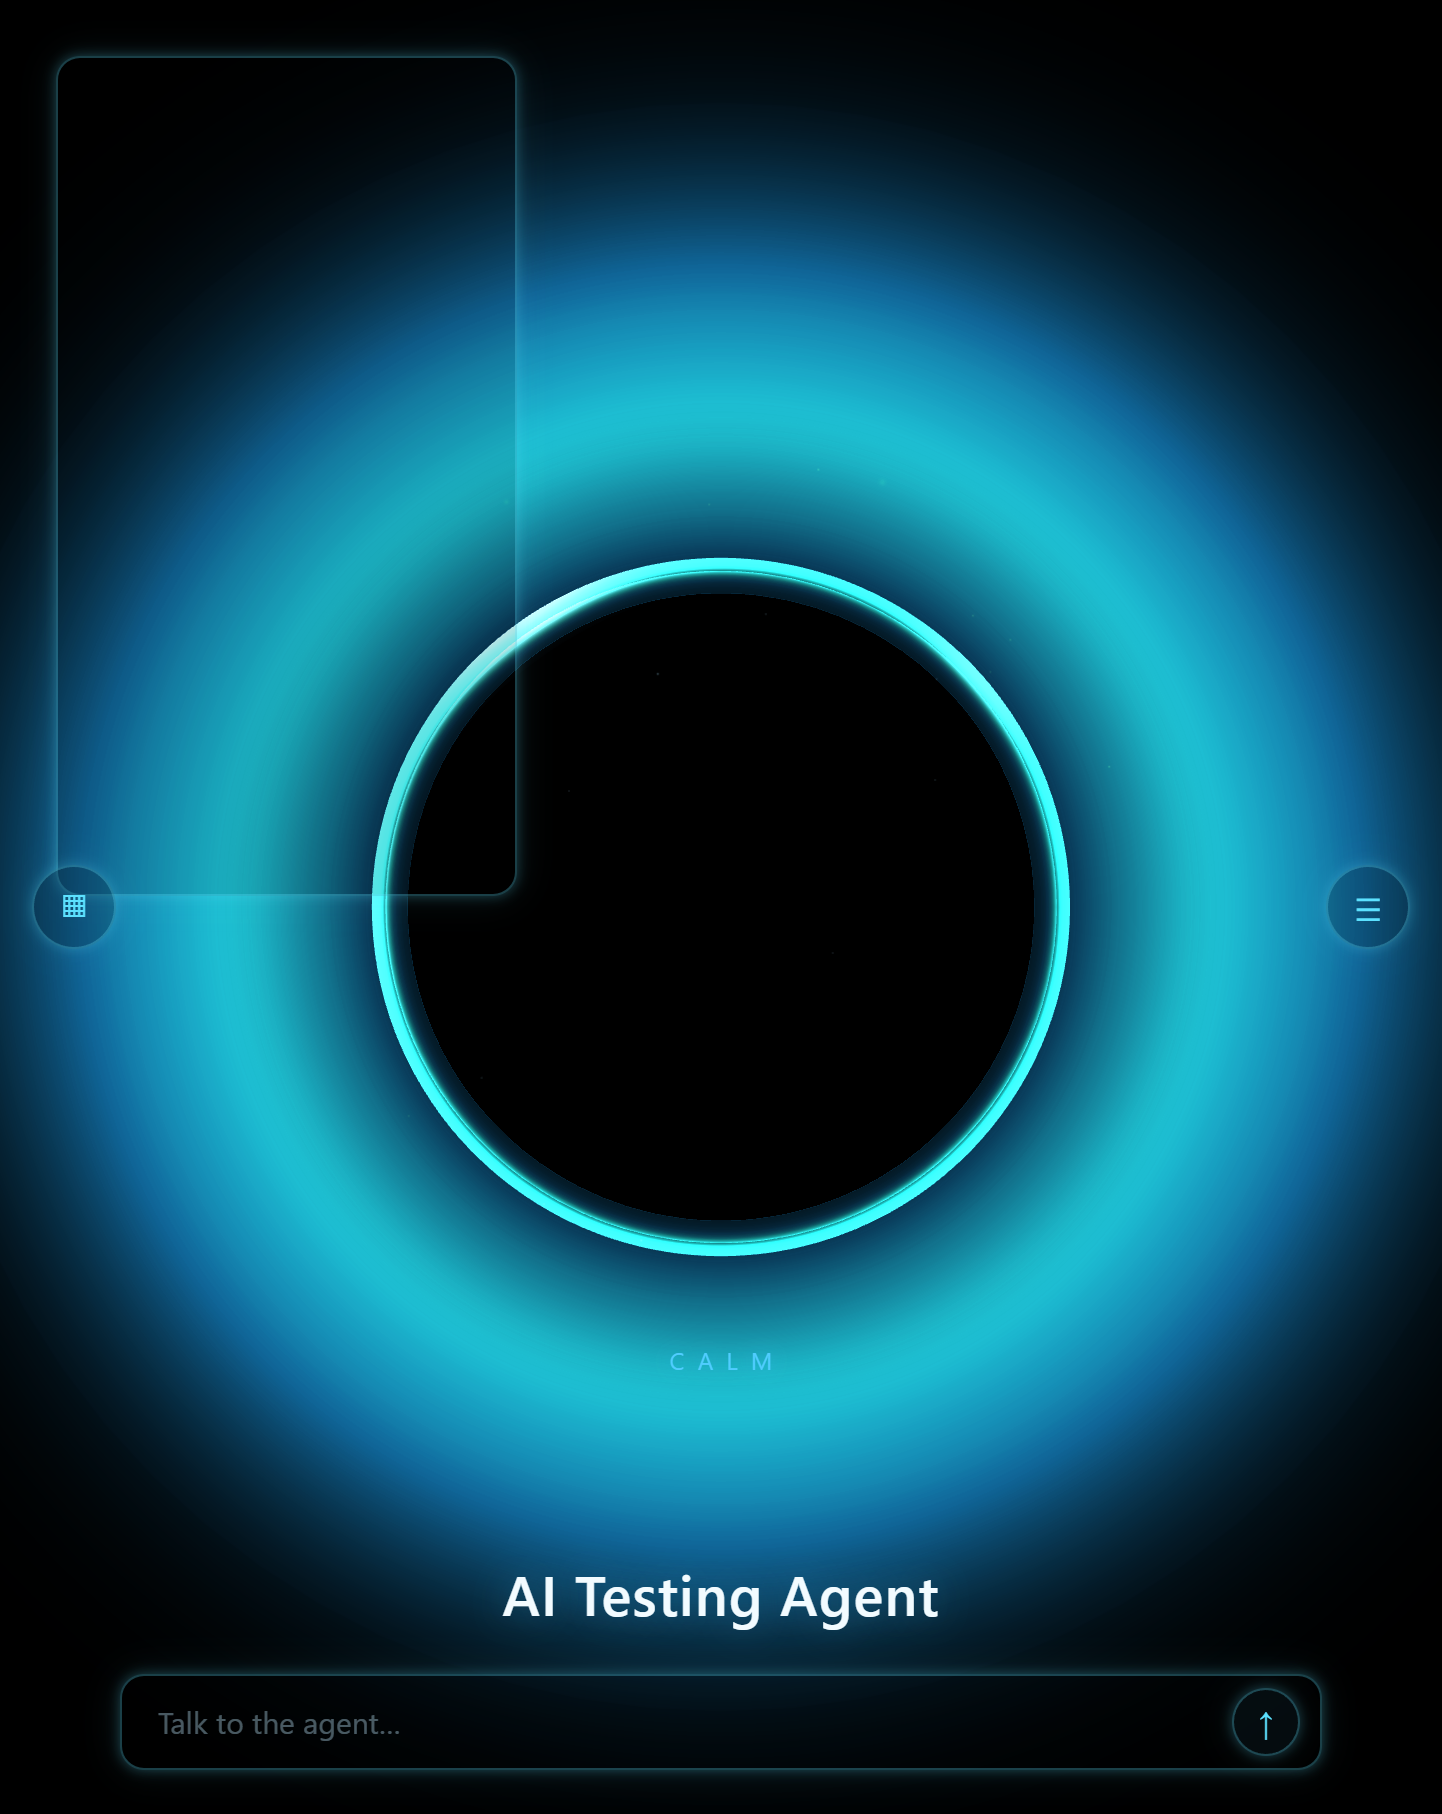
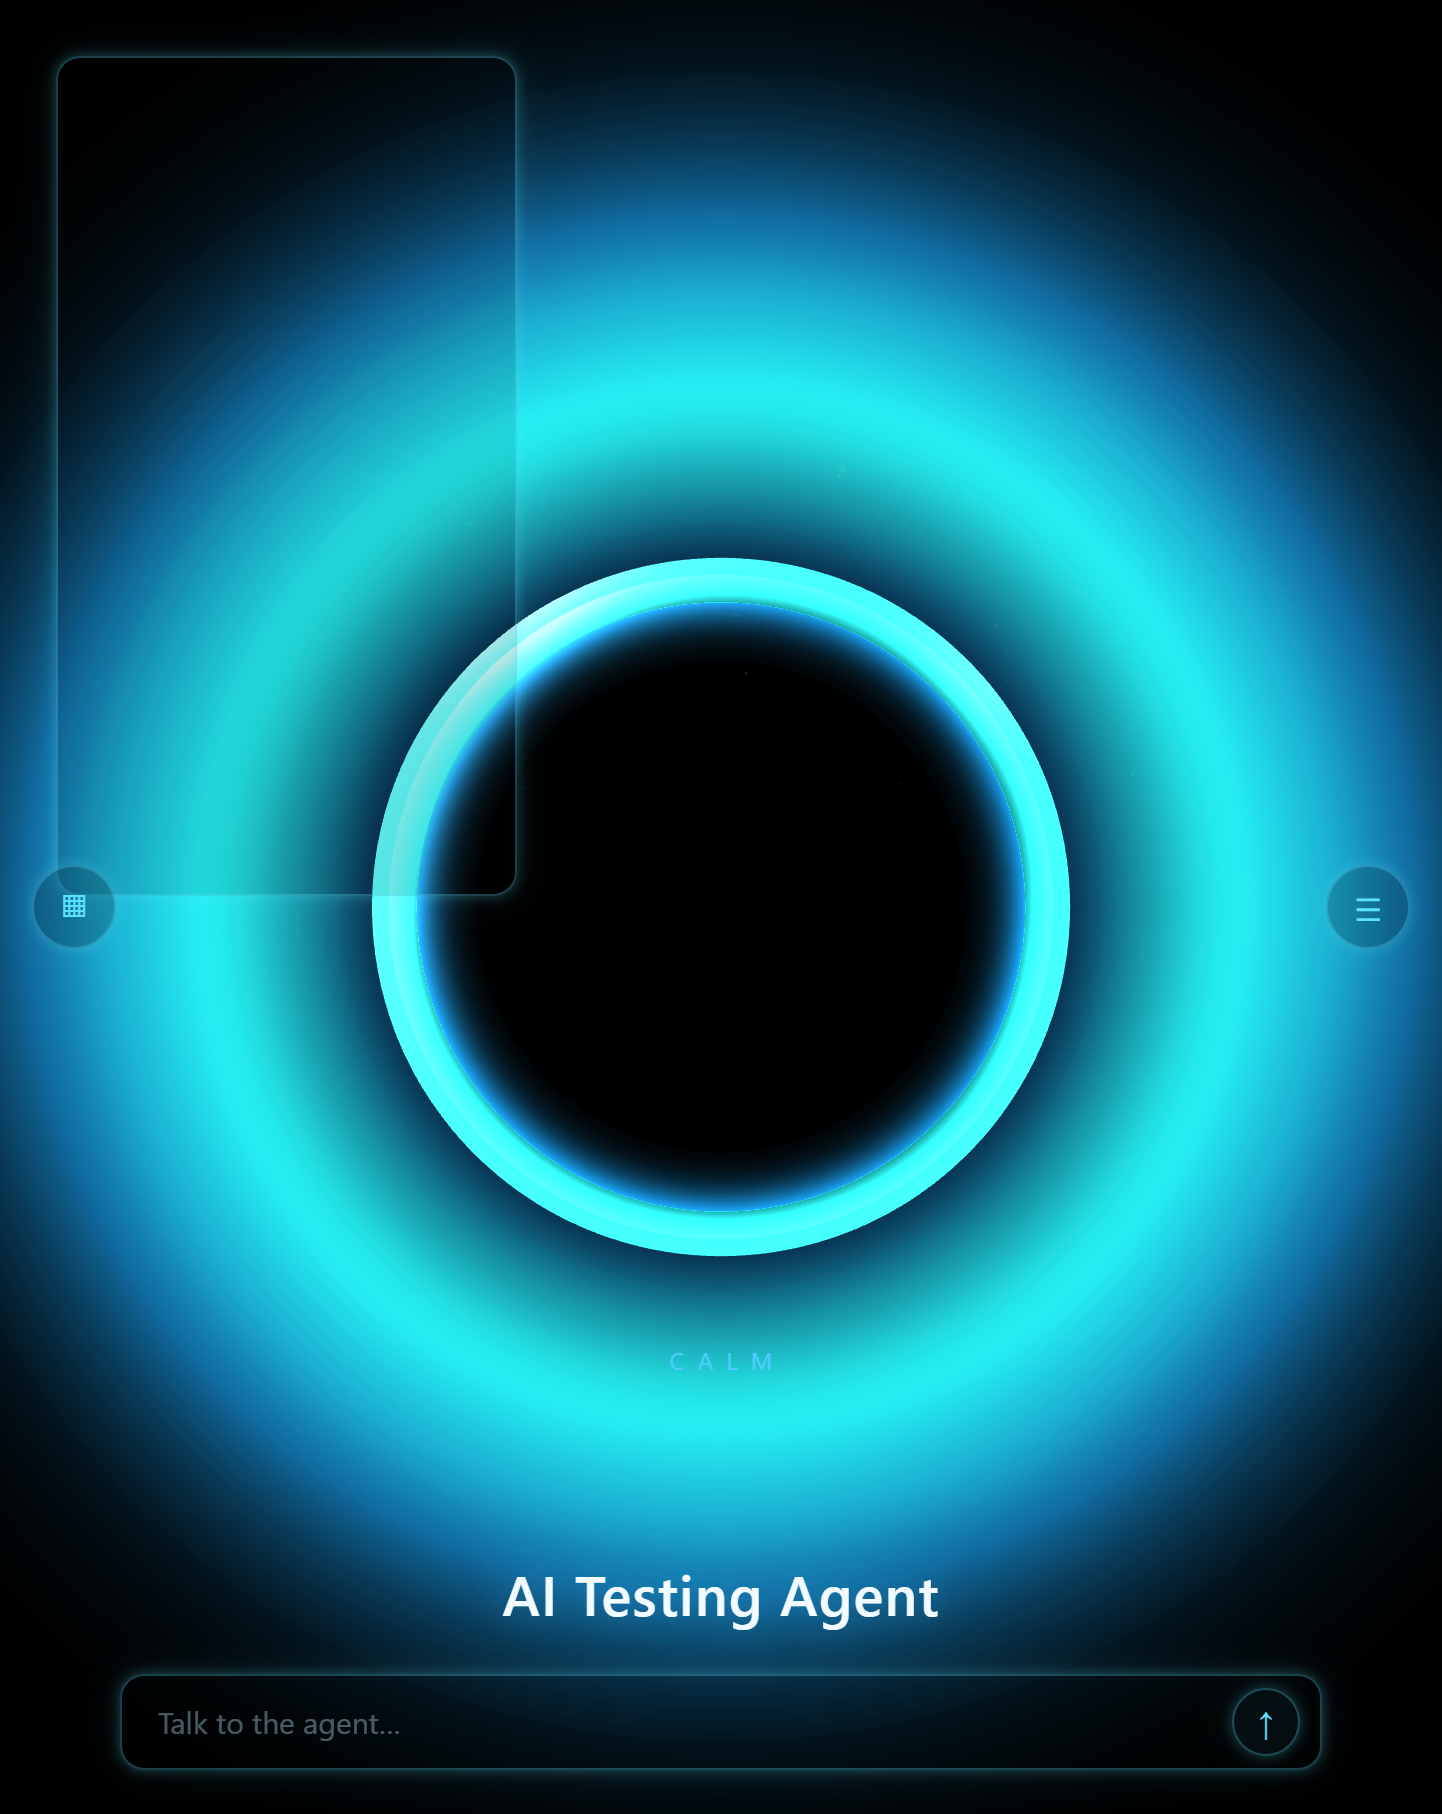
Widen neural fresnel rim into a thicker glass shell toward the mockup.

diff --git a/ui/orb_webgl.js b/ui/orb_webgl.js
@@ -569,7 +569,7 @@
     "}",
   ].join("\n");
 
-  // Neural only: fresnel rim-only glass bubble — dark hollow centre, glow at the limb.
+  // Neural only: wide fresnel glass shell — dark hollow centre, thick limb band with volume.
   // No face fill, no MeshPhysical transmission, no atan (seam-safe). Turbulence = rim shimmer.
   const FRAG_BUBBLE = [
     "uniform vec3 uColor;",
@@ -583,31 +583,33 @@
     "  vec3 N = normalize(vNormal);",
     "  vec3 V = normalize(vView);",
     "  float ndv = clamp(abs(dot(N, V)), 0.0, 1.0);",
-    // Strict fresnel: face ~0, energy only near grazing angles.
-    "  float fres = pow(1.0 - ndv, 2.85);",
-    "  float F0 = 0.04;",
-    "  float schlick = F0 + (1.0 - F0) * pow(1.0 - ndv, 5.0);",
-    // Soft glass wall at the limb (not a knife-edge neon ring, not face haze).
-    "  float rim = smoothstep(0.18, 0.96, fres);",
-    "  float softRim = pow(rim, 0.72);",
-    "  float rimCore = pow(rim, 1.85);",
-    "  float crescent = pow(max(dot(N, normalize(vec3(-0.72, 0.42, 0.35))), 0.0), 2.4);",
-    "  float gloss = pow(max(dot(N, normalize(vec3(-0.55, 0.82, 0.22))), 0.0), 28.0);",
-    "  float gloss2 = pow(max(dot(N, normalize(vec3(0.62, 0.55, 0.4))), 0.0), 48.0);",
+    // Lower power → wider rim band (glass shell thickness, not a thin neon line).
+    "  float fresWide = pow(1.0 - ndv, 1.45);",
+    "  float fresEdge = pow(1.0 - ndv, 2.65);",
+    "  float F0 = 0.045;",
+    "  float schlick = F0 + (1.0 - F0) * pow(1.0 - ndv, 4.2);",
+    // Soft translucent volume + brighter outer lip.
+    "  float volume = smoothstep(0.08, 0.72, fresWide);",
+    "  float softVol = pow(volume, 0.78);",
+    "  float lip = smoothstep(0.22, 0.95, fresEdge);",
+    "  float rimCore = pow(lip, 1.55);",
+    "  float crescent = pow(max(dot(N, normalize(vec3(-0.72, 0.42, 0.35))), 0.0), 2.2);",
+    "  float gloss = pow(max(dot(N, normalize(vec3(-0.55, 0.82, 0.22))), 0.0), 22.0);",
+    "  float gloss2 = pow(max(dot(N, normalize(vec3(0.62, 0.55, 0.4))), 0.0), 40.0);",
     "  float turb = clamp(uTurbulence, 0.0, 2.0);",
     "  float nDot = dot(N, vec3(0.31, 0.67, 0.22));",
-    "  float shimmer = 0.5 + 0.5 * sin(nDot * (5.0 + turb * 1.3) + uTime * (0.36 + 0.18 * turb) + vObj.y * 1.35);",
-    "  float shell = softRim * (0.38 + schlick * 1.15) * (0.9 + crescent * 0.28);",
-    "  shell += rimCore * 0.55;",
-    "  shell += softRim * shimmer * (0.03 + 0.05 * turb);",
-    "  shell += gloss * 0.85 + gloss2 * 0.35;",
-    // Hard kill on facing pixels so the centre stays a dark void.
-    "  shell *= smoothstep(0.12, 0.55, fres);",
+    "  float shimmer = 0.5 + 0.5 * sin(nDot * (4.6 + turb * 1.2) + uTime * (0.34 + 0.16 * turb) + vObj.y * 1.25);",
+    "  float shell = softVol * (0.42 + schlick * 0.95) * (0.88 + crescent * 0.32);",
+    "  shell += rimCore * 0.62;",
+    "  shell += softVol * shimmer * (0.035 + 0.055 * turb);",
+    "  shell += gloss * 0.72 + gloss2 * 0.28;",
+    // Keep the face a dark void; allow a thicker shell band than a knife-edge.
+    "  shell *= smoothstep(0.1, 0.42, fresWide);",
     "  float alpha = shell * uOpacity;",
     "  if (alpha < 0.012) discard;",
-    "  vec3 col = mix(uColor * 0.62, uColor, softRim);",
-    "  col = mix(col, vec3(0.62, 0.92, 1.0), clamp(crescent * 0.14 + gloss * 0.55 + gloss2 * 0.35, 0.0, 0.55));",
-    "  gl_FragColor = vec4(col, min(alpha, 0.92));",
+    "  vec3 col = mix(uColor * 0.55, uColor, softVol);",
+    "  col = mix(col, vec3(0.58, 0.9, 1.0), clamp(crescent * 0.16 + gloss * 0.5 + gloss2 * 0.3, 0.0, 0.52));",
+    "  gl_FragColor = vec4(col, min(alpha, 0.9));",
     "}",
   ].join("\n");
 
@@ -840,19 +842,19 @@ function createNeural(scene, color) {
     const sprite = softSprite(bucket);
     const cyanBias = color.clone().lerp(new THREE.Color("#6ee8ff"), 0.38);
 
-    // Soft ring bloom around the bubble (additive; centre killed in shader).
-    addDisc(bucket, group, 3.55, FRAG_NEURAL_ATMOS, {
-      color: cyanBias, opacity: 0.5, power: 1.15, white: 0.0, z: -0.58, mood: 0.04,
+    // Soft atmospheric bloom around the bubble (additive; centre killed in shader).
+    addDisc(bucket, group, 3.7, FRAG_NEURAL_ATMOS, {
+      color: cyanBias, opacity: 0.54, power: 1.05, white: 0.0, z: -0.58, mood: 0.04,
     });
     group.children[group.children.length - 1].renderOrder = 0;
 
-    addDisc(bucket, group, 2.65, FRAG_NEURAL_ATMOS, {
-      color: cyanBias, opacity: 0.36, power: 1.55, white: 0.0, z: -0.4, mood: 0.04,
+    addDisc(bucket, group, 2.75, FRAG_NEURAL_ATMOS, {
+      color: cyanBias, opacity: 0.38, power: 1.4, white: 0.0, z: -0.4, mood: 0.04,
     });
     group.children[group.children.length - 1].renderOrder = 1;
 
-    addDisc(bucket, group, 1.95, FRAG_NEURAL_ATMOS, {
-      color: cyanBias, opacity: 0.16, power: 2.1, white: 0.0, z: -0.24, mood: 0.03,
+    addDisc(bucket, group, 2.05, FRAG_NEURAL_ATMOS, {
+      color: cyanBias, opacity: 0.18, power: 1.85, white: 0.0, z: -0.24, mood: 0.03,
     });
     group.children[group.children.length - 1].renderOrder = 1;
 
@@ -866,20 +868,20 @@ function createNeural(scene, color) {
       side: THREE.FrontSide,
       blending: THREE.NormalBlending,
     }));
-    const voidCore = new THREE.Mesh(bucket.geo(new THREE.SphereGeometry(0.905, 64, 48)), voidMat);
+    const voidCore = new THREE.Mesh(bucket.geo(new THREE.SphereGeometry(0.88, 64, 48)), voidMat);
     voidCore.renderOrder = 2;
     group.add(voidCore);
 
     const shellMat = shaderMat(bucket, FRAG_BUBBLE, {
-      color: cyanBias, opacity: 1.78, vertex: VERT_ENERGY, side: THREE.FrontSide, mood: 0.05,
+      color: cyanBias, opacity: 1.72, vertex: VERT_ENERGY, side: THREE.FrontSide, mood: 0.05,
     });
     const shell = new THREE.Mesh(bucket.geo(new THREE.SphereGeometry(1.0, 96, 72)), shellMat);
     shell.renderOrder = 4;
-    // Subtle backface for glass-wall thickness at the limb without filling the void.
+    // Backface for glass-wall thickness at the limb without filling the void.
     const innerMat = shaderMat(bucket, FRAG_BUBBLE, {
-      color: cyanBias, opacity: 0.42, vertex: VERT_ENERGY, side: THREE.BackSide, mood: 0.03,
+      color: cyanBias, opacity: 0.55, vertex: VERT_ENERGY, side: THREE.BackSide, mood: 0.03,
     });
-    const innerShell = new THREE.Mesh(bucket.geo(new THREE.SphereGeometry(0.965, 72, 56)), innerMat);
+    const innerShell = new THREE.Mesh(bucket.geo(new THREE.SphereGeometry(0.955, 72, 56)), innerMat);
     innerShell.renderOrder = 3;
     group.add(innerShell);
     group.add(shell);

diff --git a/ui/desktop/index.html b/ui/desktop/index.html
@@ -92,7 +92,7 @@
   </div>
 
   <script src="/ui/vendor/three.min.js"></script>
-  <script src="/ui/orb_webgl.js?v=neural7b"></script>
+  <script src="/ui/orb_webgl.js?v=neural8"></script>
   <script src="/ui/desktop/desktop.js?v=desk9b"></script>
 </body>
 </html>

diff --git a/PROJECT_MEMORY.md b/PROJECT_MEMORY.md
@@ -1,7 +1,7 @@
 # PROJECT_MEMORY.md
 # Persistent memory for the AI Testing Application
 
-Last updated: 2026-11-06 (neural fresnel rim-only pass v7; mystic/aether untouched)
+Last updated: 2026-11-06 (neural thicker glass-shell rim pass; mystic/aether untouched)
 
 ## Original Vision
 A local AI testing agent with a conversational interface. The user talks to it (text first, voice later) to request tests, configure environments, or interpret results. Everything else lives in secondary tabs or settings.
@@ -50,7 +50,7 @@ Skeleton + substantial features exist:
 - `desktop_app.py` — **native Windows window** (pywebview + Edge WebView2) hosting mystic shell at `/ui/desktop/`; Gradio remains available via `run_ui.py`
 - `ui/desktop/` — full-window mystic orb on pure black `#000000`; shared **shell-surface** style for chat widget, both drawers, and chat input; **app drawer** + **screen drawer** (chat / orb / widget-settings icons); bottom chat bar; no top nav. **UI-6 partial:** edge-snap drawer toggles; free-drag widgets; Widget Settings (transparency + border/background colour) apply live to all shell surfaces; layout in `localStorage` (`desktop-shell-layout-v1`). See `docs/mockups/screenshots/widget_settings_desk7.png`.
 - `ui/gradio_app.py` — Gradio UI + energy orb; **named presets** (UI-5); orb controls behind top-right gear panel (UI-6a)
-- **Orb styles:** classic four on canvas; **`mystic` / `aether` / `neural` on WebGL** via `ui/orb_webgl.js` + vendored `ui/vendor/three.min.js` (particle counts capped; see `docs/mockups/orb_styles.md`). **Mystic** uses FBM / ridge-extracted filament fragment shaders (`FRAG_MYSTIC`), not ribbon meshes; soft atmospheric bloom replaces hard rim; equatorial streak removed; floor glow kept (see `docs/mockups/screenshots/mystic_final_*.png`). **Aether** remains prior fiery plasma pass (soft atmos, `FRAG_AETHER`, arcs/embers); a further mockup pass was tried and reverted (not clearly closer). **Neural** fresnel rim-only glass bubble (`neural_mid_v7.png`): `FRAG_BUBBLE` strict fresnel (dark hollow centre, limb glow only; no MeshPhysical transmission), soft occlusion core, `FRAG_NEURAL_ATMOS` ring bloom (separate additive layer), sparse sparkles; glow/turbulence live (seam-safe). Mystic/aether untouched. **Desktop UI theme follows style:** mystic `#50cdff`, aether `#ff8a2b`, neural `#5ce1ff` (borders / shell glow / `--cyan`). **Live controls (2026-11-06):** slider `0` applies; glow mid=`1`; turbulence warps filaments (mystic/aether) and shell shimmer (neural); spin `0` stops swirl. Shots: `mystic_glow_*.png`, `aether_mid.png`, `neural_mid_v7.png`, `style_theme_switch.png`.
+- **Orb styles:** classic four on canvas; **`mystic` / `aether` / `neural` on WebGL** via `ui/orb_webgl.js` + vendored `ui/vendor/three.min.js` (particle counts capped; see `docs/mockups/orb_styles.md`). **Mystic** uses FBM / ridge-extracted filament fragment shaders (`FRAG_MYSTIC`), not ribbon meshes; soft atmospheric bloom replaces hard rim; equatorial streak removed; floor glow kept (see `docs/mockups/screenshots/mystic_final_*.png`). **Aether** remains prior fiery plasma pass (soft atmos, `FRAG_AETHER`, arcs/embers); a further mockup pass was tried and reverted (not clearly closer). **Neural** thicker fresnel glass-shell bubble (`neural_mid_v7.png`): `FRAG_BUBBLE` dual fresnel (wide volume + edge lip; dark hollow centre; no MeshPhysical transmission), soft occlusion core, softer `FRAG_NEURAL_ATMOS` bloom, sparse sparkles; glow/turbulence live (seam-safe). Mystic/aether untouched. **Desktop UI theme follows style:** mystic `#50cdff`, aether `#ff8a2b`, neural `#5ce1ff` (borders / shell glow / `--cyan`). **Live controls (2026-11-06):** slider `0` applies; glow mid=`1`; turbulence warps filaments (mystic/aether) and shell shimmer (neural); spin `0` stops swirl. Shots: `mystic_glow_*.png`, `aether_mid.png`, `neural_mid_v7.png`, `style_theme_switch.png`.
 - `reports/exporter.py` — run export
 - Tests under `tests/` for Jira, Playwright heal, orb config/presets, sessions, settings, reports
 - Architecture notes + AGENTS.md + this file
